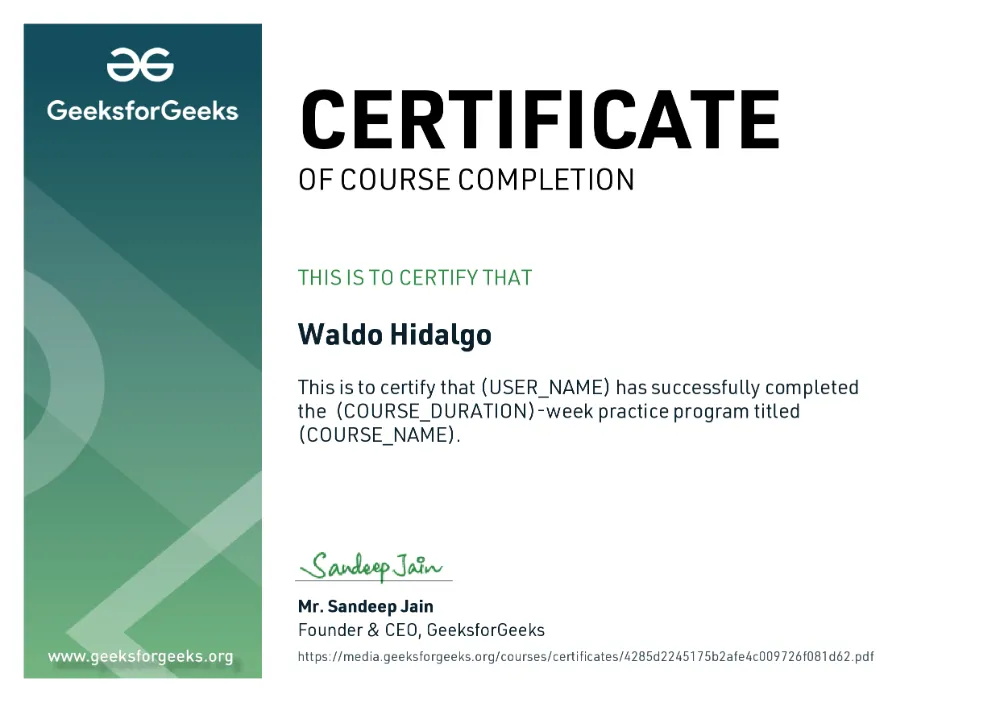
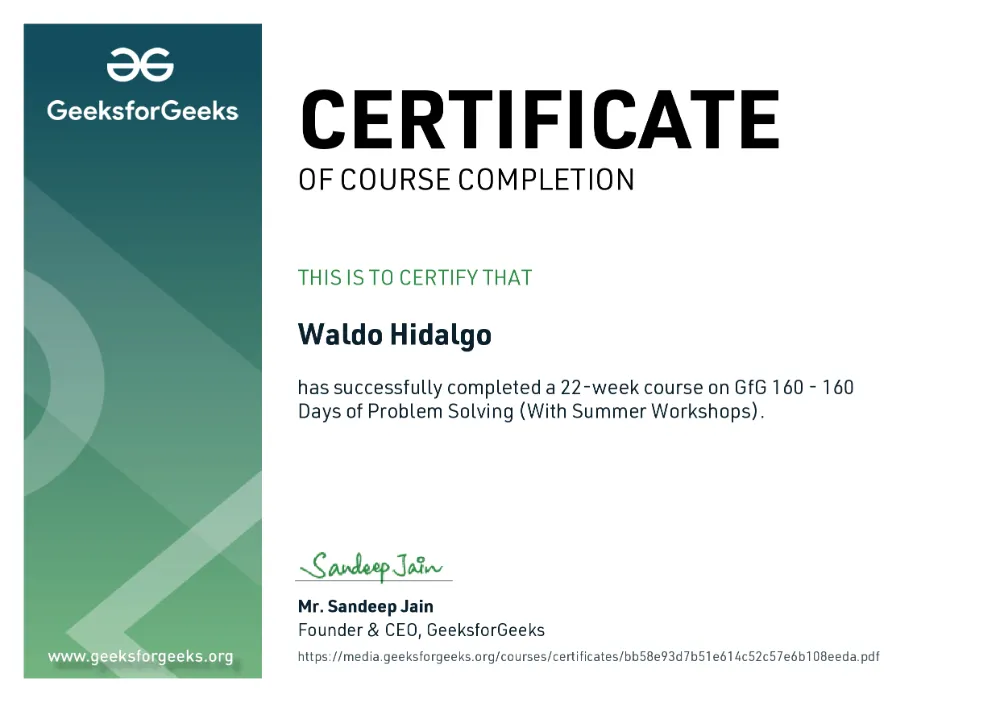
fix: subo certificado correctamente emitido

Changed region(s): [[0.279, 0.5297, 0.868, 0.6232], [0.62, 0.9037, 0.899, 0.9348]]

diff --git a/README.md b/README.md
@@ -12,7 +12,7 @@ Repositorio con el código solución a dos desafíos realizados en la plataforma
 
 ## Completion Certificate
 
-[Link de Verificación](https://www.geeksforgeeks.org/certificate/4285d2245175b2afe4c009726f081d62)
+[Link de Verificación](https://www.geeksforgeeks.org/certificate/bb58e93d7b51e614c52c57e6b108eeda)
 ![Certificado](./gfg160_completion_certificate.webp)
 
 ## Descripción de Problemas y Aprobación de mi Solución
